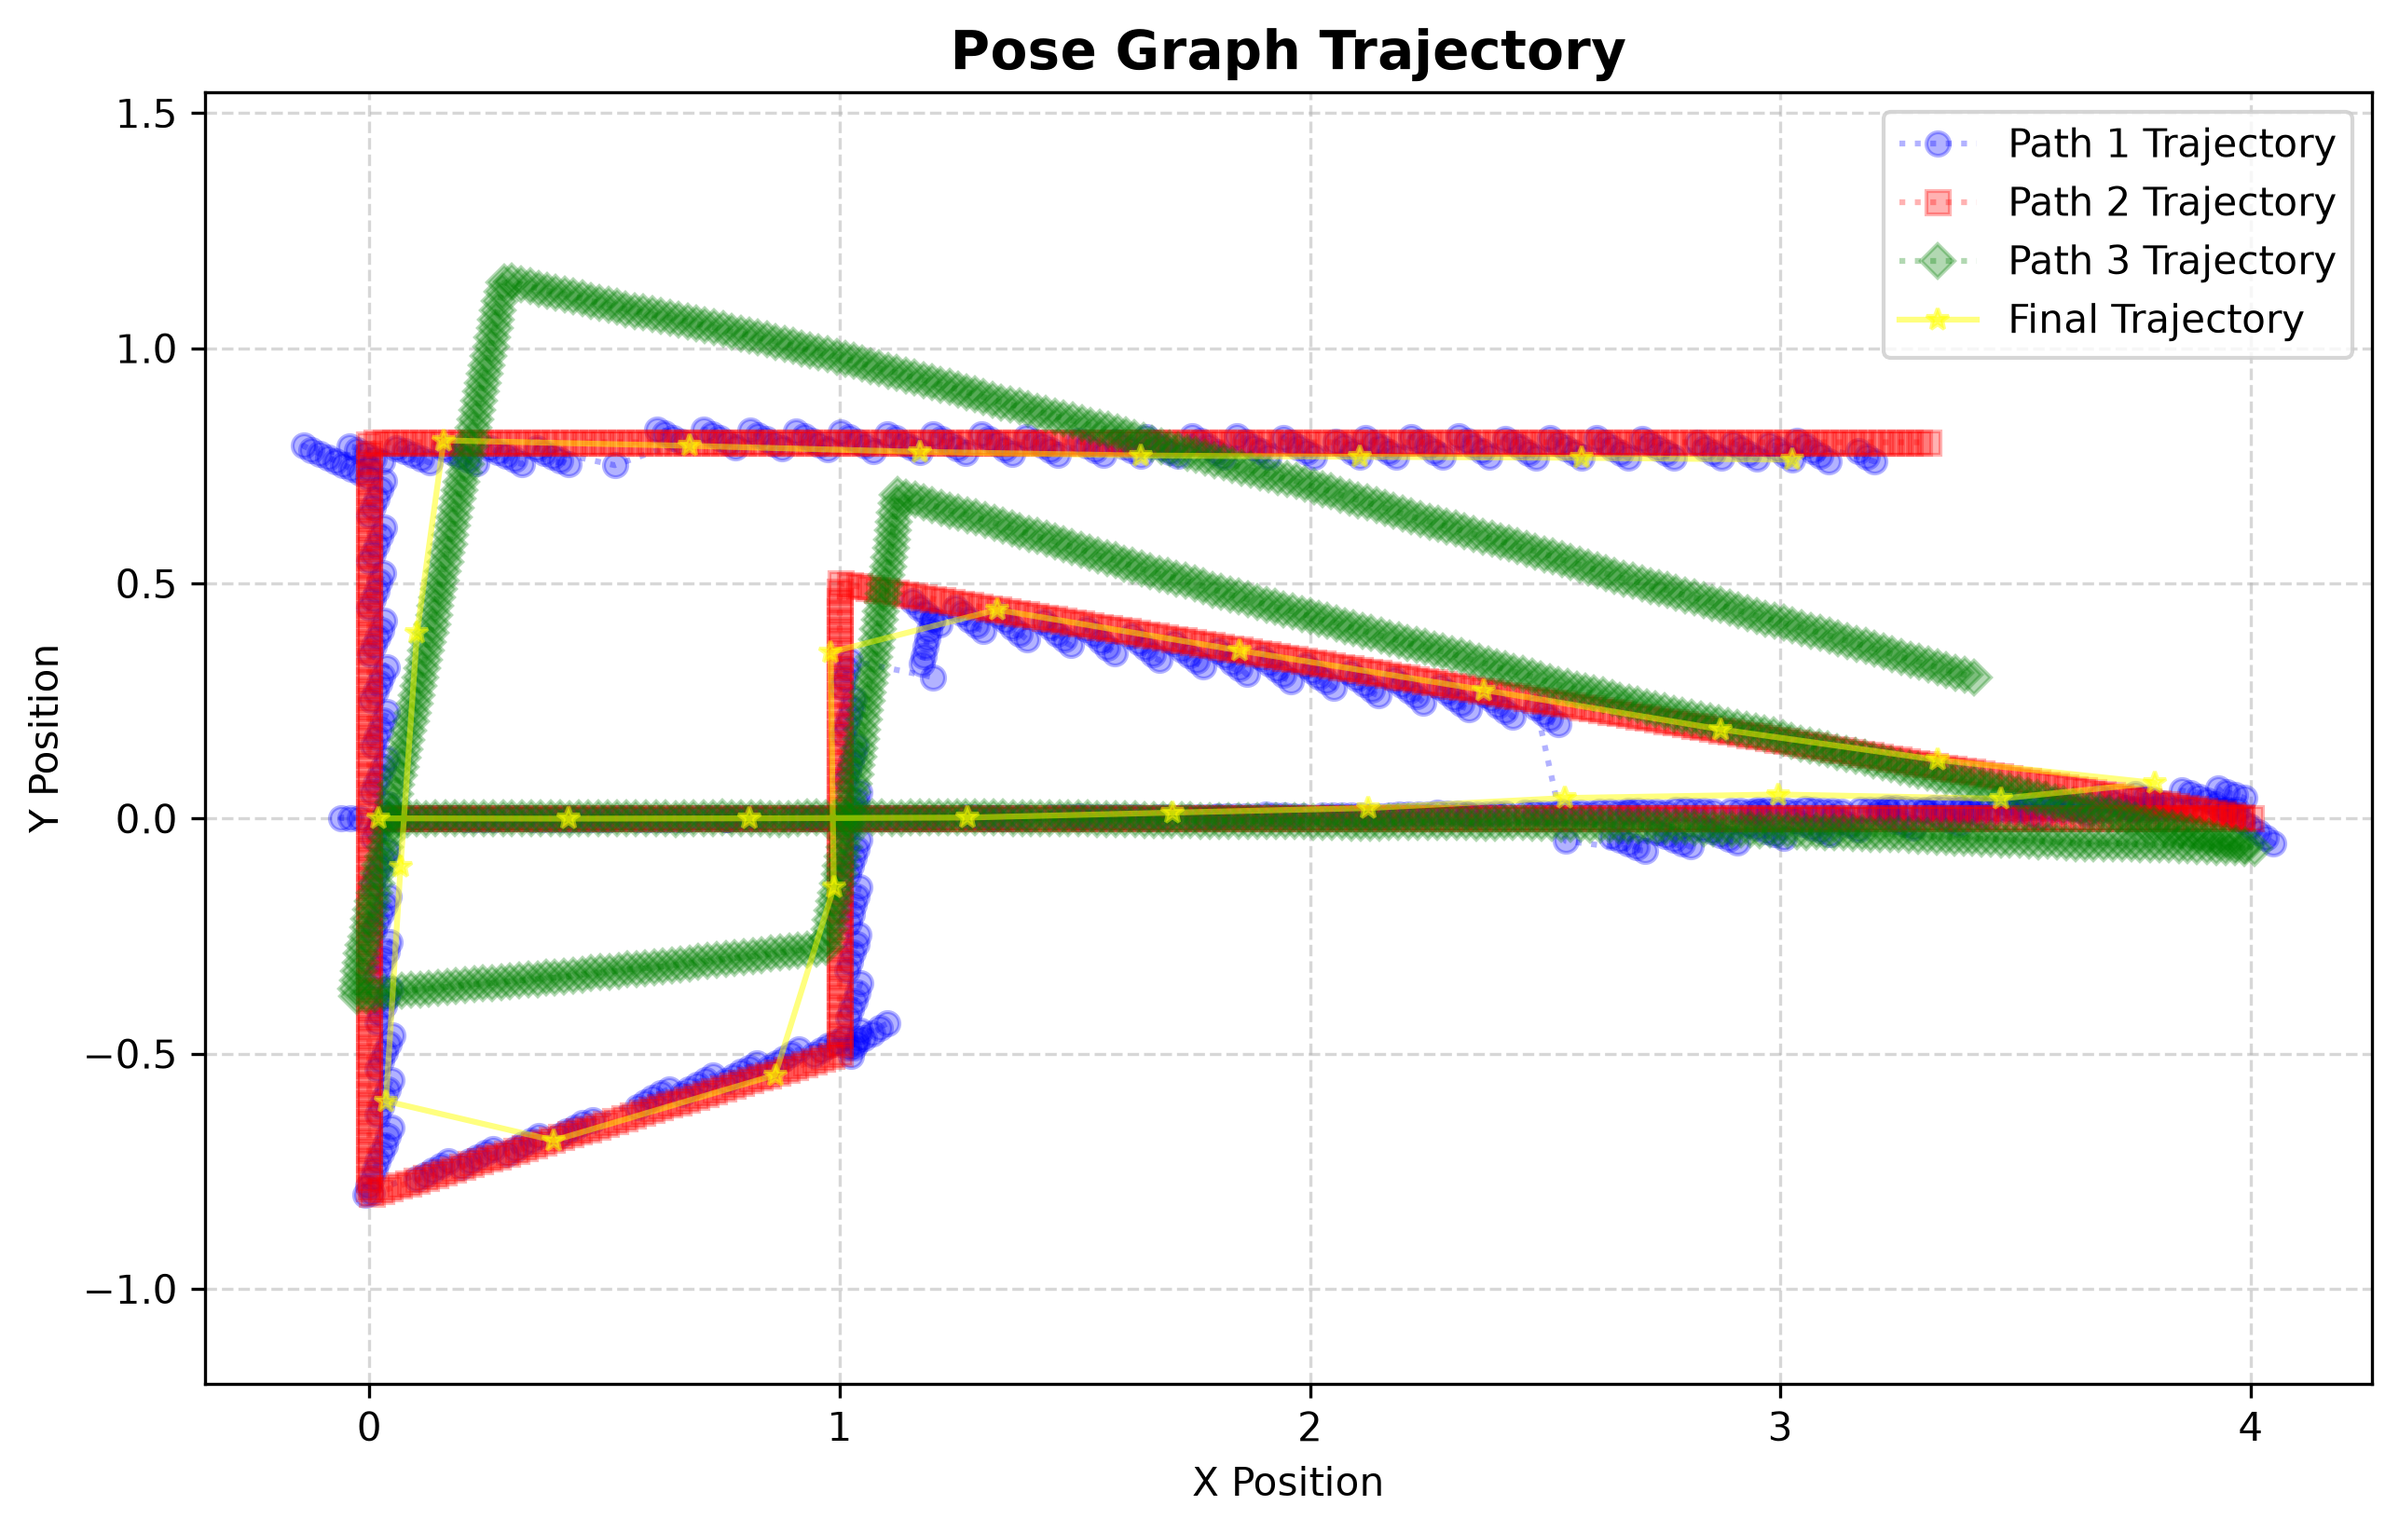
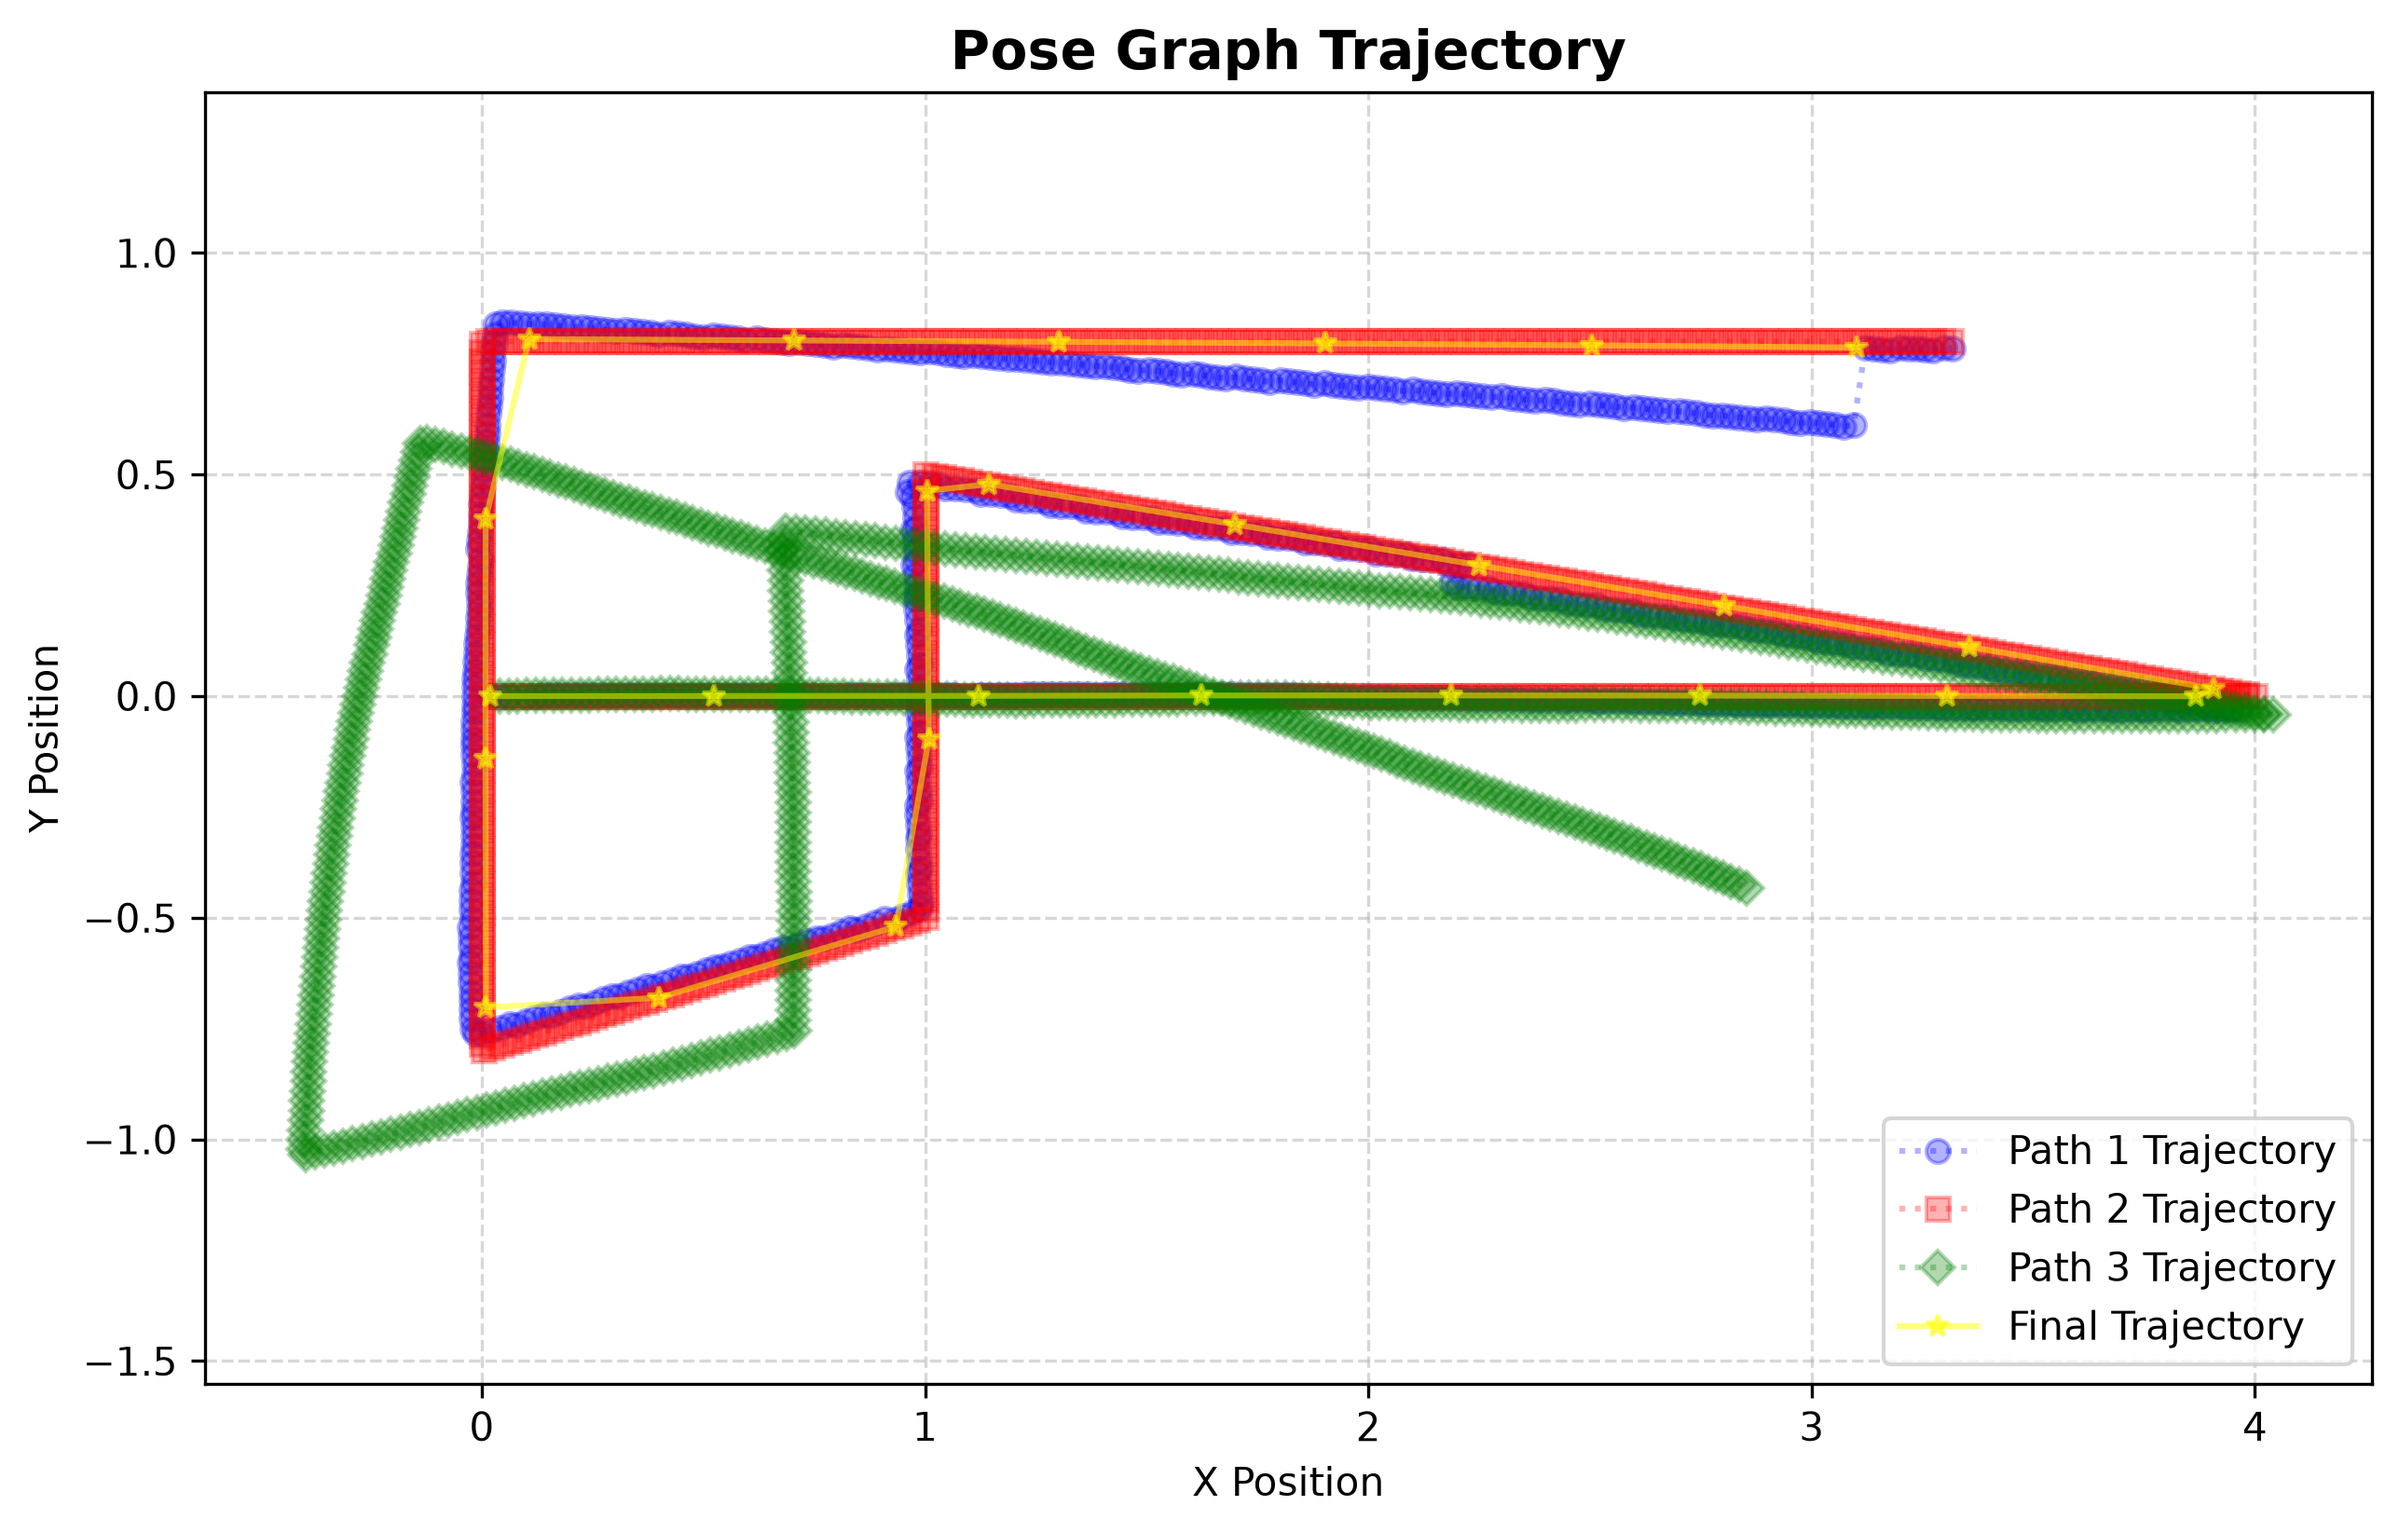
logic and perfomance update

diff --git a/src/vgslam/src/core.py b/src/vgslam/src/core.py
@@ -22,8 +22,11 @@ class VGSLAM:
         
         # loop closure
         min_chain_size: int = 5, 
-        loop_closure_max_dist: float = 0.7,
-        loop_accept_fitness: float = 0.7,
+        loop_closure_max_dist: float = 0.35,
+        loop_closure_max_ang: float = np.deg2rad(30),
+        loop_closure_min_correction: float = 0.08,
+        loop_closure_min_angle_correction: float = np.deg2rad(4),
+        loop_accept_fitness: float = 0.7,   
         coarse_search_max_candidates: int = 5,
         
         # vertex creation and sub-vertex handling
@@ -68,6 +71,9 @@ class VGSLAM:
         self._min_angle_to_subvertex = min_angle_to_subvertex
         self._min_chain_size = min_chain_size
         self._loop_closure_max_dist = loop_closure_max_dist
+        self._loop_closure_max_ang = loop_closure_max_ang
+        self._loop_closure_min_correction = loop_closure_min_correction
+        self._loop_closure_min_angle_correction = loop_closure_min_angle_correction
         self._vertex_acc_fitness = vertex_accept_fitness
         self._loop_acc_fitness = loop_accept_fitness
         self._vertex_rmse_tol = vertex_rmse_tolerance
@@ -115,8 +121,8 @@ class VGSLAM:
             # if match is bad - fallback to odometry integration
             # so no movement is lost
             if fitness <= self._vertex_acc_fitness or rmse >= self._vertex_rmse_tol:
-                scan.estimated_pos = transform_4x4_to_2d_pose(self._current_global_pose)
-                self._last_subkeyframe = scan
+                # scan.estimated_pos = transform_4x4_to_2d_pose(self._current_global_pose)
+                # self._last_subkeyframe = scan
                 return self._proc_fallback_odom(scan)
             
             # if previous sub-keyframe has no estimated position
@@ -174,8 +180,9 @@ class VGSLAM:
                     transf_2d = transform_4x4_to_2d_pose(T_prevVertex_current)
                     
                     transf_err = np.linalg.norm((transf_2d[:2] - rel_pose[:2]))
+                    transf_err_rel = transf_err / max(np.linalg.norm(rel_pose[:2]), 0.1)
                     rot_err = abs(normalize_angle(transf_2d[2] - rel_pose[2]))
-                    if transf_err < self._vert_match_dist_tol and rot_err < self._vert_match_ang_tol:
+                    if transf_err_rel < self._vert_match_dist_tol and rot_err < self._vert_match_ang_tol:
                         tr = transf_2d
 
                 # add vertex and register scan
@@ -202,25 +209,25 @@ class VGSLAM:
     def _proc_fallback_odom(self, scan: PositionedCloud):
         if self._prev_scan is None:
             return None, False
-        
-        self._scans_no_correction += 1
-        
-        # get delta transform and apply it on the global pose
-        prev_pos = self._prev_scan.pos
-        dx_rel, dy_rel, dtheta_rel = relative_pose(scan.pos, prev_pos)
-        _, _, yaw_g = -transform_4x4_to_2d_pose(self._current_global_pose)
-        
-        dx_g = np.cos(yaw_g) * dx_rel - np.sin(yaw_g) * dy_rel
-        dy_g = np.sin(yaw_g) * dx_rel + np.cos(yaw_g) * dy_rel
-        dtheta_g = dtheta_rel
-        
-        T_prev_current = pose2d_to_transform(np.array([dx_g, dy_g, dtheta_g]))
-        self._current_global_pose = self._current_global_pose @ T_prev_current
 
-        scan.estimated_pos = transform_4x4_to_2d_pose(self._current_global_pose)
+        self._scans_no_correction += 1
+
+        T_prev_current = relative_pose_4x4(
+            self._prev_scan.pos,
+            scan.pos
+        )
+
+        self._current_global_pose = (
+            self._current_global_pose @ T_prev_current
+        )
+
+        scan.estimated_pos = transform_4x4_to_2d_pose(
+            self._current_global_pose
+        )
+
         self._prev_scan = scan
-        
-        return transform_4x4_to_2d_pose(self._current_global_pose), False
+
+        return scan.estimated_pos, False
         
     def _process_scans(self, source: PositionedCloud, target: PositionedCloud, rel_override: np.ndarray | None = None):
         # grab cached or newly created scan data
@@ -230,7 +237,7 @@ class VGSLAM:
         
         result = small_gicp.align(
             pcd_tgt, pcd_src, tree,
-            relative_pose_4x4(source.pos, target.pos) if rel_override is None else rel_override,
+            relative_pose_4x4(target.pos, source.pos) if rel_override is None else rel_override,
             registration_type=self._matcher_mode,
             max_correspondence_distance=self._matcher_max_corr_distance,
             verbose=self._verbose
@@ -256,13 +263,22 @@ class VGSLAM:
     ) -> tuple[int, np.ndarray | None, tuple]:
         # iterate over scans and return the first match that has good scores
         # source array should be sorted by match probability for best results
+        best_score = -float('inf')
+        best = (-1, None, (0, 0))
+
         for i, source in enumerate(sources):
-            T_new, (fitness, inlier_rmse) = self._process_scans(source, target)
+            T_new, (fitness, rmse) = self._process_scans(source, target)
+
+            if fitness < min_confidence or rmse > rmse_max:
+                continue
             
-            if fitness > min_confidence and inlier_rmse < rmse_max:
-                return i, transform_4x4_to_2d_pose(T_new), (fitness, inlier_rmse)
+            score = fitness - 0.5 * rmse
+
+            if best is None or score > best_score:
+                best_score = score
+                best = (i, transform_4x4_to_2d_pose(T_new), (fitness, rmse))
         
-        return -1, None, (0, 0)
+        return best
     
     def _add_odom_pose(self, est_pos: np.ndarray, dpos: np.ndarray | None):
         # add a new vertex
@@ -312,19 +328,14 @@ class VGSLAM:
         
         vertices = [self.vertices[id] for id in coarse_ids if id not in blacklist]
         
-        # filter vertices by distance to current
-        cur_pose = np.array(self._prev_scan.estimated_pos[:2])
-        vertices_with_dist_sq = [(v, np.sum((np.array(v.pose.position) - cur_pose) ** 2)) for v in vertices]
-        nearest_vertices = [v for v, dist in vertices_with_dist_sq if dist <= self._loop_closure_max_dist ** 2]
-        
         # get the best match
-        scans = [self._saved_scans[v.id] for v in nearest_vertices]
+        scans = [self._saved_scans[v.id] for v in vertices]
         idx, pose, (fitness, rmse) = self._find_best_match(scans, self._prev_scan, self._loop_acc_fitness, self._vertex_rmse_tol)
         
         # if match found - calculate displacement error and 
         # close the loop if it is acceptable
         if pose is not None and idx >= 0:
-            predicted = relative_from_vertices(self.vertices[self.next_vertex_id - 1], nearest_vertices[idx])
+            predicted = relative_from_vertices(self.vertices[self.next_vertex_id - 1], vertices[idx])
             
             err = np.linalg.norm((pose - predicted)[:2])
             
@@ -335,16 +346,19 @@ class VGSLAM:
                 print("pose_err angle_err" , err, angle_err)
                 print("predicted_pose estimated_pose", predicted, pose)
             
-            if err <= 0.5 and angle_err <= np.deg2rad(30):
+            if err <= self._loop_closure_max_dist and angle_err <= self._loop_closure_max_ang and (
+                err > self._loop_closure_min_correction or
+                angle_err > self._loop_closure_min_angle_correction
+            ):
                 if self._verbose:
                     print("loop closure stats")
-                    print("pose_loop pose_prev", nearest_vertices[idx].pose.position, self.vertices[self.next_vertex_id - 1].pose.position)
+                    print("pose_loop pose_prev", vertices[idx].pose.position, self.vertices[self.next_vertex_id - 1].pose.position)
                     print("fitness:", fitness, "rmse:", rmse)
                 
-                self._add_edge(self.next_vertex_id - 1, nearest_vertices[idx].id, pose[:2], pose[2], 0.5)
+                self._add_edge(self.next_vertex_id - 1, vertices[idx].id, pose[:2], pose[2], 0.5)
                 
                 if self._verbose:
-                    print("added edge [", nearest_vertices[idx].id, self.next_vertex_id - 1, "]")
+                    print("added edge [", vertices[idx].id, self.next_vertex_id - 1, "]")
                 
                 self.optimize()
 

diff --git a/src/vgslam/__main__.py b/src/vgslam/__main__.py
@@ -7,12 +7,20 @@ import cv2 as cv
 sim = _RobotSimulator(
     dt=0.1,
     lidar_angle_step=np.deg2rad(0.5),
-    odom_rotation_noise=np.deg2rad(0.1),
-    odom_translation_noise=0.03,
+    # odom_rotation_noise=np.deg2rad(0.1),
+    # odom_translation_noise=0.03,
     odom_bias_translation_walk=0.002,
     odom_bias_rotation_walk=np.deg2rad(0.05)
 )
-slam = VGSLAM()
+slam = VGSLAM(
+    min_chain_size=5,
+    dxy_var=0.4,
+    # matcher_max_correspondence_distance=0.4,
+    min_distance_to_vertex=0.5,
+    keyframe_match_distance_tolerance=0.2,
+    keyframe_match_angle_tolerance=np.deg2rad(7),
+    # min_distance_to_subvertex=0.1
+)
 
 scans = [
     sim.step(speed=0.2) for _ in range(700)
@@ -25,7 +33,7 @@ for scan in scans:
     pos, closed = slam.process_scan(
         PositionedCloud(
             scan_to_cloud(scan.ranges, scan.angles, 12),
-            scan.odom_pos * np.array([1, 1, -1]),
+            scan.odom_pos,
         )
     )
     
@@ -39,4 +47,5 @@ poses_final = [v.pose.position for v in slam.vertices.values()]
 
 save_slam_graph(list(slam.vertices.values()), slam.edges)
 plot_points(np.array(poses_slam), np.array(poses_real), np.array(poses_odometry), np.array(poses_final))
-cv.imwrite("map.png", slam.create_occupancy_grid())
+
+cv.imwrite("map.png", slam.create_occupancy_grid().grid)

diff --git a/src/vgslam/src/models.py b/src/vgslam/src/models.py
@@ -36,11 +36,9 @@ class PositionedCloud:
         
         self._descriptor: np.ndarray | None = None
         
-    def relative(self, other):
-        p1 = other.pos if other.estimated_pos is None else other.estimated_pos
-        p2 = self.pos if self.estimated_pos is None else self.estimated_pos
-
-        return relative_pose_4x4(p1, p2)
+    def relative(self, other):   # T_self_other в оценочных позах
+        assert self.estimated_pos is not None and other.estimated_pos is not None
+        return relative_pose_4x4(self.estimated_pos, other.estimated_pos)
 
     def gicp(self, voxel_downsample: bool = False, voxel_size: float = 0.05) -> small_gicp.PointCloud:
         """
@@ -59,8 +57,9 @@ class PositionedCloud:
             
         # elif self._gicp is None:
     
-        self._gicp = small_gicp.PointCloud(self.cloud)
-        small_gicp.estimate_normals_covariances(self._gicp)
+        if self._gicp is None:
+            self._gicp = small_gicp.PointCloud(self.cloud)
+            small_gicp.estimate_normals_covariances(self._gicp)
     
         return self._gicp
     
